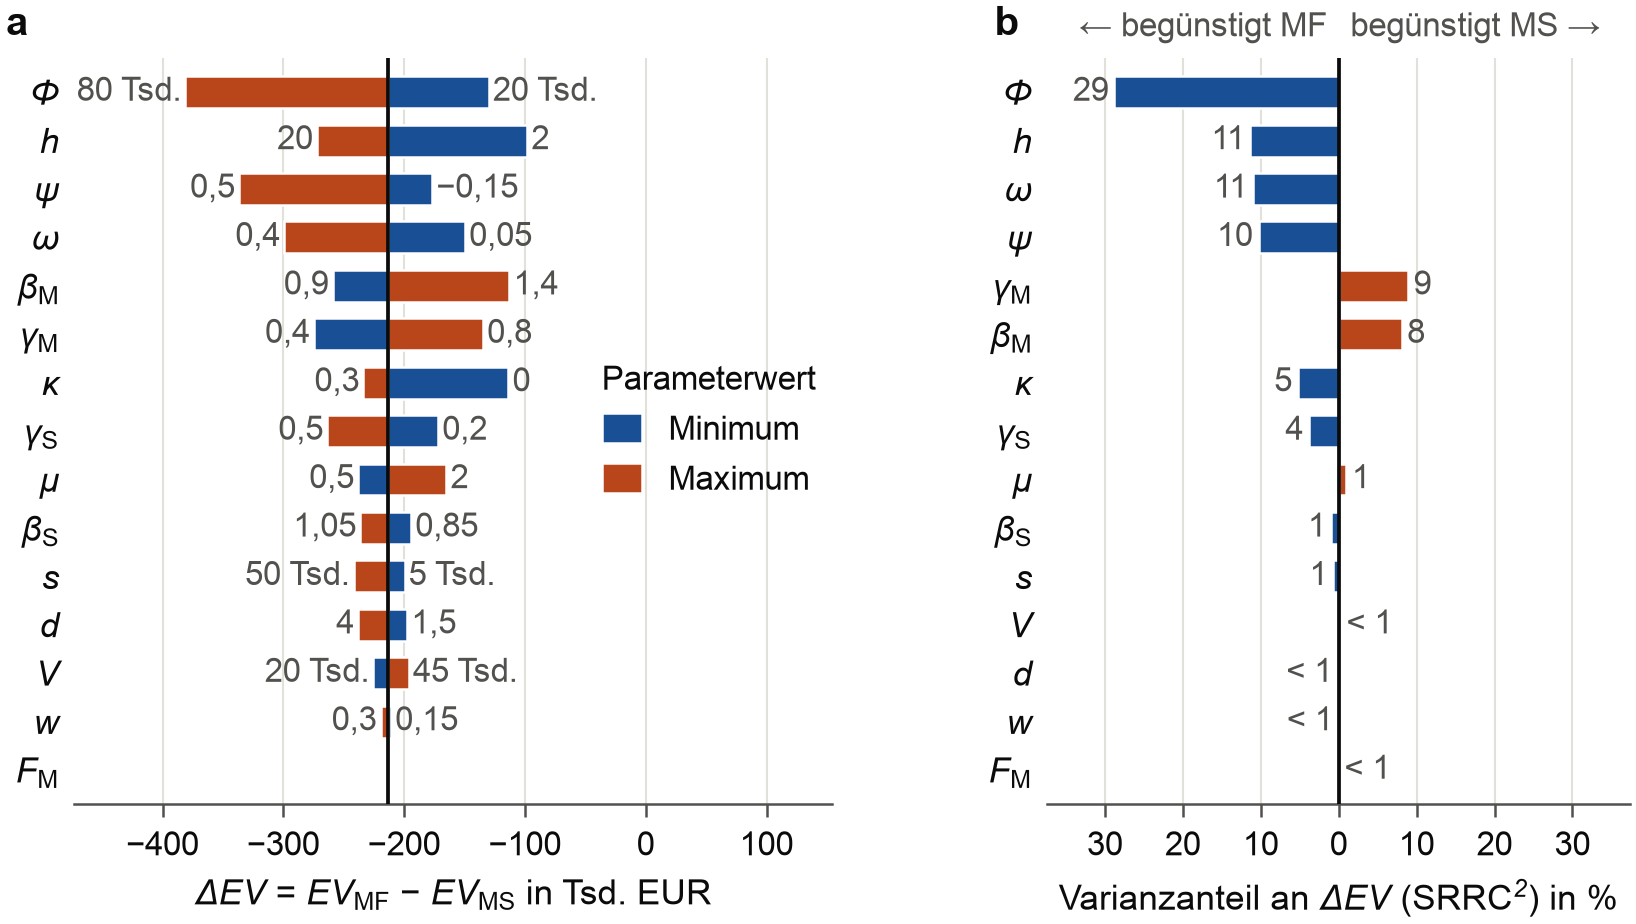
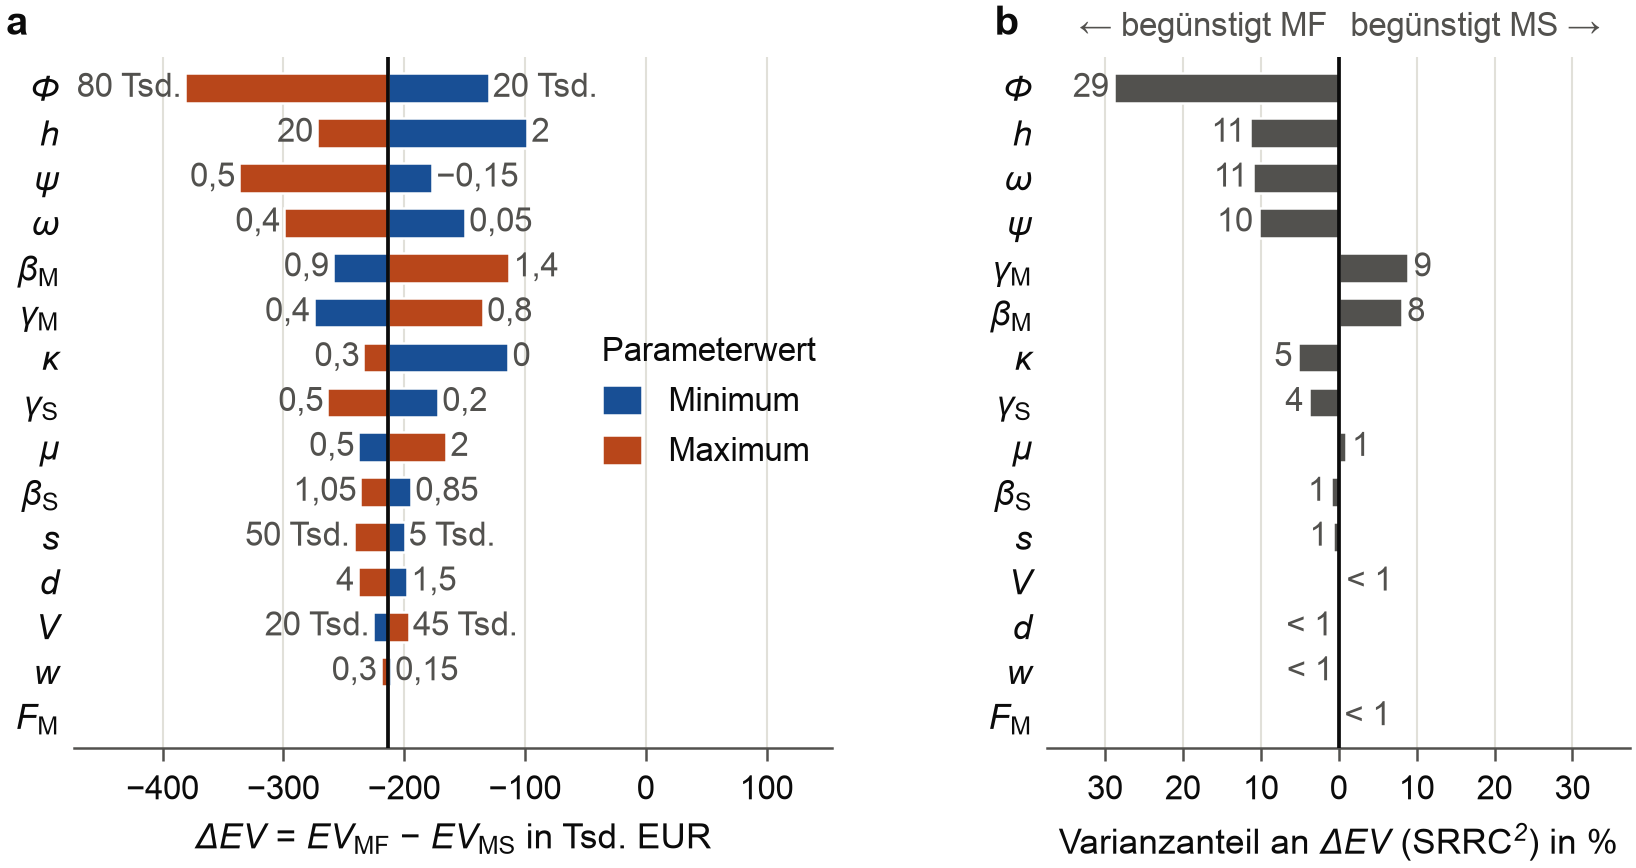
feat: v1.1.1 table rounding, clearer tables and figures, new macros
Presentation only. Model logic and result data unchanged (SHA256SUMS valid).
See CHANGELOG for details.

diff --git a/src/tables.py b/src/tables.py
@@ -7,6 +7,7 @@ Aufruf (aus model/):  python -m src.tables
 """
 
 import json
+from decimal import ROUND_HALF_UP, Decimal
 from pathlib import Path
 
 from .analysis import crossing
@@ -51,9 +52,11 @@ def de(x, nd=0, pct=False):
     schmalem Leerzeichen, echtes Minus."""
     if x is None:
         return "--"
-    v = x * 100 if pct else x
-    s = f"{abs(v):,.{nd}f}".replace(",", "X").replace(".", "{,}").replace("X", r"\,")
-    if v < 0 and float(f"{abs(v):.{nd}f}") != 0:
+    # kaufmännisch runden auf Basis der Dezimaldarstellung (vermeidet 0,6615 → 66,1 %)
+    v = Decimal(repr(float(x))) * (100 if pct else 1)
+    q = abs(v).quantize(Decimal(1).scaleb(-nd), rounding=ROUND_HALF_UP)
+    s = f"{q:,.{nd}f}".replace(",", "X").replace(".", "{,}").replace("X", r"\,")
+    if v < 0 and q != 0:
         s = MINUS + s
     return s + (r"\,\%" if pct else "")
 
@@ -85,8 +88,15 @@ def write(path, text):
 def tab_parameter():
     rows = []
     for u in UNCERTAIN:
-        rows.append(f"    ${SYMBOL_TEX[u.symbol]}$ & {SHORT_NAME[u.symbol]} & {num(u.low)} & "
-                    f"{num(u.mode)} & {num(u.high)} & {ORIGIN[u.origin]} & {u.cite} \\\\")
+        vals = (u.low, u.mode, u.high)
+        if max(abs(v) for v in vals) >= 1000:
+            cells = [de(v) for v in vals]
+        else:  # so wenige Nachkommastellen wie nötig, innerhalb der Zeile einheitlich
+            nd = next(k for k in (0, 1, 2) if all(abs(round(v, k) - v) < 1e-9 for v in vals))
+            cells = [de(v, nd) for v in vals]
+        cite = u.cite.replace("Annahme; Richtung:", "Annahme, Richtung:")
+        rows.append(f"    ${SYMBOL_TEX[u.symbol]}$ & {SHORT_NAME[u.symbol]} & {cells[0]} & "
+                    f"{cells[1]} & {cells[2]} & {ORIGIN[u.origin]} & {cite} \\\\")
     body = "\n".join(rows)
     return HEADER + rf"""\begin{{table}}[htbp]
   \centering
@@ -96,6 +106,7 @@ def tab_parameter():
     {de(I_MONO)}$\,EUR, $N_0 = {de(N0)}$ Nutzer.}}
   \label{{tab:parameter}}
   \footnotesize
+  \renewcommand{{\arraystretch}}{{1.08}}
   \begin{{tabular}}{{@{{}}l >{{\raggedright\arraybackslash}}p{{5.4cm}} r r r c
       >{{\raggedright\arraybackslash}}p{{3.8cm}}@{{}}}}
     \toprule
@@ -132,14 +143,15 @@ def tab_szenarien(r):
   \centering
   \caption[Barwertige Gesamtkosten je Szenario]{{Barwertige Gesamtkosten je Szenario und
     szenariogewichtet (Median über {de(N_RUNS)} Parametersätze, Tsd.\,EUR).
-    $\Delta K = K_{{\mathrm{{MF}}}} - K_{{\mathrm{{MS}}}}$. Positive Werte bedeuten einen
-    Kostenvorteil von Microservices von Beginn.}}
+    $\Delta K = K_{{\mathrm{{MF}}}} - K_{{\mathrm{{MS}}}}$ als Median der Differenz je
+    Parametersatz, Mittel: Mittelwert von $\Delta K$. Positive Werte bedeuten einen
+    Kostenvorteil von MS.}}
   \label{{tab:szenarien}}
   \footnotesize
   \begin{{tabular}}{{@{{}}l r r r r r r c r@{{}}}}
     \toprule
     Szenario & $g$ & $p_j$ & $K_{{\mathrm{{MS}}}}$ & $K_{{\mathrm{{MF}}}}$ & $\Delta K$ &
-      Mittel & 90-\%-Intervall & P(MS günstiger) \\
+      Mittel & 90-\%-Intervall & $P(\Delta K > 0)$ \\
     \midrule
 {body}
     \bottomrule
@@ -170,8 +182,8 @@ def tab_hypothesen(r):
          f"{h3['wert']['rang_mu']}, $\\Phi$ Rang 1. Starkes Szenario: "
          f"$h$ Rang {st['h']}, $\\mu$ Rang {st['mu']}", h3["bestaetigt"]),
     ]
-    body = "\n".join(f"    {a} & {b} & {c} & {'gestützt' if d else 'nicht gestützt'} \\\\"
-                     for a, b, c, d in rows)
+    body = "\n    \\addlinespace\n".join(
+        f"    {a} & {b} & {c} & {'gestützt' if d else 'nicht gestützt'} \\\\" for a, b, c, d in rows)
     return HEADER + rf"""\begin{{table}}[htbp]
   \centering
   \caption[Prüfung der Hypothesen]{{Prüfung der Hypothesen anhand der festgelegten
@@ -217,7 +229,7 @@ def _variant_row(v):
     band = (f"{de(v['g_P20'], 0, True)}--{de(v['g_P80'], 0, True)}"
             if v["g_P20"] is not None and v["g_P80"] is not None else "--")
     g50 = de(v["g_P50"], 0, True) if v["g_P50"] is not None else r"$>$\,100\,\%"
-    return (f"    {VARIANT_LABEL.get(v['key'], v['key'])} & {de(v['H1'], 1, True)} & {de(v['H2'], 1, True)} & "
+    return (f"    {VARIANT_LABEL.get(v['key'], v['key'])} & {de(v['H1'], 2, True)} & {de(v['H2'], 1, True)} & "
             f"{g50} & {band} \\\\")
 
 
@@ -229,8 +241,9 @@ def tab_robustheit(r, keys=MAIN_VARIANTS, label="tab:robustheit", appendix=False
     return HEADER + rf"""\begin{{table}}[htbp]
   \centering
   \caption[{cap}]{{{cap}. H1: Anteil der Parametersätze mit geringerem szenariogewichtetem
-    Erwartungswert für MF. H2: $P(\Delta K > 0)$ bei 60\,\% Wachstum. $g^*$: Wachstumsrate mit
-    50\,\% Amortisationswahrscheinlichkeit. Übergang: 20 bis 80\,\%.}}
+    EV für MF. H2: $P(\Delta K > 0)$ bei 60\,\% Wachstum. $g^*$: Wachstumsrate mit
+    50\,\% Amortisationswahrscheinlichkeit. Übergang: 20 bis 80\,\%. Bereiche als
+    Minimum / Modus / Maximum.}}
   \label{{{label}}}
   \footnotesize
   \begin{{tabular}}{{@{{}}>{{\raggedright\arraybackslash}}p{{9.2cm}} r r r c@{{}}}}
@@ -255,7 +268,7 @@ def tab_sensitivitaet_anhang(r):
         rows.append(f"    ${SYMBOL_TEX[s]}$ & {de(x['prcc_dEV'], 2)} & {k} "
                     f"({x['rang_boot_lo']}--{x['rang_boot_hi']}) & {de(x['srrc2_dEV'], 1, True)} & "
                     f"{de(x['prcc_dK_stark'], 2)} & {de(x['srrc2_dK_stark'], 1, True)} & {eq[s]} & "
-                    f"{de(mono[s], 0, True) if s in mono else '--'} \\\\")
+                    f"{de(mono[s], 1, True) if s in mono else '--'} \\\\")
     body = "\n".join(rows)
     r2 = r["hypothesen"]["H3"]["r2_rangregression"]
     return HEADER + rf"""\begin{{table}}[htbp]
@@ -263,15 +276,15 @@ def tab_sensitivitaet_anhang(r):
   \caption[Globale Sensitivität im Detail]{{Globale Sensitivität: PRCC und Rang (95-\%-Bootstrap-Intervall
     des Rangs), Varianzanteil SRRC$^2$ (Rangregression, $R^2$ = {de(r2['dEV'], 2)} bzw.
     {de(r2['dK_stark'], 2)}), Rang bei gleich breiten Bereichen (Modus $\pm$\,50\,\%) und Anteil
-    der Parametersätze mit monotonem Verlauf von $\Delta EV$ im Parameter.}}
+    der Parametersätze mit monotonem Verlauf von $\Delta EV$ im Parameter (--: nicht ausgewertet).}}
   \label{{tab:sensitivitaet_anhang}}
   \footnotesize
   \begin{{tabular}}{{@{{}}l r c r r r c r@{{}}}}
     \toprule
     & \multicolumn{{3}}{{c}}{{$\Delta EV$ (szenariogewichtet)}} &
-      \multicolumn{{2}}{{c}}{{$\Delta K$ (60\,\%)}} & gleiche & monoton \\
+      \multicolumn{{2}}{{c}}{{$\Delta K$ (60\,\%)}} & Rang bei & \\
     \cmidrule(lr){{2-4}}\cmidrule(lr){{5-6}}
-    Parameter & PRCC & Rang & SRRC$^2$ & PRCC & SRRC$^2$ & Breite & \\
+    Parameter & PRCC & Rang & SRRC$^2$ & PRCC & SRRC$^2$ & gleicher Breite & monoton \\
     \midrule
 {body}
     \bottomrule
@@ -336,7 +349,7 @@ def macros(r):
         "gSternRund": de(be["kurve_schwellen"]["g_bei_P50"], 0, True),
         "gPzwanzig": de(be["kurve_schwellen"]["g_bei_P20"], 0, True),
         "gPachtzig": de(be["kurve_schwellen"]["g_bei_P80"], 0, True),
-        "gZiehMedian": de(be["je_ziehung"]["g_star"]["median"], 1, True),
+        "gZiehMedian": de(be["je_ziehung"]["g_star"]["median"], 0, True),
         "gZiehQfuenf": de(be["je_ziehung"]["g_star"]["q05"], 0, True),
         "gZiehQneunfuenf": de(be["je_ziehung"]["g_star"]["q95"], 0, True),
         "gZiehAnteil": de(be["je_ziehung"]["anteil_mit_breakeven_bis_gmax"], 1, True),
@@ -414,6 +427,13 @@ def macros(r):
                            (0.6, 10.0, "SechzigZehn")):
         gi, hi = heat["g"].index(gv), heat["h"].index(hv)
         m[f"heatP{name}"] = de(heat["P"][hi][gi], 0, True)
+    # Nulldurchgang des Mittelwerts von ΔK über g (Bezug Erwartungswertprinzip ↔ 50-%-Kriterium)
+    import csv
+    with open(DATA / "wachstumskurve.csv", encoding="utf-8") as fh:
+        rows_wk = list(csv.DictReader(fh))
+    gk = [float(x["g"]) for x in rows_wk]
+    m["gMittelNull"] = de(crossing(gk, [float(x["mean"]) for x in rows_wk], 0.0), 0, True)
+    m["gMedianNull"] = de(crossing(gk, [float(x["median"]) for x in rows_wk], 0.0), 0, True)
     # Kostenzerlegung bei den wahrscheinlichsten Parameterwerten (Kap. 4.1)
     bf = r["basisfall"]
     lo, hi = bf["niedrig"], bf["stark"]
@@ -424,6 +444,7 @@ def macros(r):
     m["bfStarkStart"] = de(hi["migrationsstart_jahr"], 1)
     m["bfStarkDiff"] = eur_tsd(hi["MF"]["gesamt"] - hi["MS"]["gesamt"])
     m["bfStarkMig"] = eur_tsd(hi["MF"]["skalierung_migration"])
+    m["bfStarkMSSkal"] = eur_tsd(hi["MS"]["skalierung_migration"])
     # Plausibilisierung: Amortisationsdauer (Jahre) bei 60 % und 100 % Wachstum
     for key, name in (("0.60", "Stark"), ("1.00", "Hundert")):
         am = r["amortisationsdauer"][key]

diff --git a/src/figures.py b/src/figures.py
@@ -142,9 +142,9 @@ def fig_szenarien(p):
     lo = min(np.percentile(d, 5) for d in data)
     hi = max(np.percentile(d, 95) for d in data)
     ax.set_xlim(lo - 0.04 * (hi - lo), hi + 0.30 * (hi - lo))
-    ax.text(0.995, 1.02, "Microservices günstiger →", transform=ax.transAxes,
+    ax.text(0.995, 1.02, "MS günstiger →", transform=ax.transAxes,
             ha="right", va="bottom", fontsize=FS_S, color=INK2)
-    ax.text(0.0, 1.02, "← Monolith first günstiger", transform=ax.transAxes,
+    ax.text(0.0, 1.02, "← MF günstiger", transform=ax.transAxes,
             ha="left", va="bottom", fontsize=FS_S, color=INK2)
     save(fig, "abb_szenarien_delta")
 
@@ -154,7 +154,7 @@ def fig_wachstumskurve():
     c = pd.read_csv(DATA / "wachstumskurve.csv")
     thr = json.loads((DATA / "results.json").read_text(encoding="utf-8"))["breakeven"][
         "kurve_schwellen"]
-    fig, (a1, a2) = plt.subplots(2, 1, figsize=(WIDTH, 11 * CM), sharex=True,
+    fig, (a1, a2) = plt.subplots(2, 1, figsize=(WIDTH, 9.8 * CM), sharex=True,
                                  gridspec_kw={"height_ratios": [1.15, 1], "hspace": 0.28})
     g = c["g"].to_numpy()
     lo, hi, gs = thr["g_bei_P20"], thr["g_bei_P80"], thr["g_bei_P50"]
@@ -196,8 +196,7 @@ def fig_wachstumskurve():
         a2.plot(g, c[q], color=BLUE, linewidth=0.6, zorder=3)
     a2.plot(g, c["median"], color=BLUE, zorder=4, label="Median")
     a2.axhline(0, color=INK, linewidth=0.8, zorder=3)
-    a2.text(0.005, 0.02 * (c["q95"].max() - c["q05"].min()), r"$\Delta K$ > 0: Microservices"
-            " günstiger", fontsize=FS_S, color=INK2, va="bottom", ha="left")
+    a2.text(0.005, 0.02 * (c["q95"].max() - c["q05"].min()), r"$\Delta K$ > 0: MS günstiger", fontsize=FS_S, color=INK2, va="bottom", ha="left")
     a2.set_ylabel(r"Kostendifferenz $\Delta K$" "\nin Tsd. EUR (Barwert)")
     fmt_tsd(a2)
     a2.set_xlabel(G_LABEL)
@@ -215,7 +214,7 @@ def fig_heatmap():
     hm = json.loads((DATA / "heatmap.json").read_text(encoding="utf-8"))
     g, h, P = np.array(hm["g"]), np.array(hm["h"]), np.array(hm["P"])
     rows = np.arange(len(h))
-    fig, ax = plt.subplots(figsize=(WIDTH, 7 * CM))
+    fig, ax = plt.subplots(figsize=(WIDTH, 6.4 * CM))
     im = ax.pcolormesh(g, rows, P, cmap=SEQ, vmin=0, vmax=1, shading="nearest",
                        edgecolors="white", linewidth=0.4)
     cs = ax.contour(g, rows, P, levels=[0.2, 0.5, 0.8], colors=INK,
@@ -266,7 +265,7 @@ def fig_sensitivitaet():
     rows = torn["zeilen"][::-1]
     base = torn["dEV_basis"]
     prc = sorted(r["sensitivitaet"]["prcc"], key=lambda x: x["srrc2_dEV"])
-    fig, (a1, a2) = plt.subplots(1, 2, figsize=(WIDTH, 8.2 * CM),
+    fig, (a1, a2) = plt.subplots(1, 2, figsize=(WIDTH, 7.6 * CM),
                                  gridspec_kw={"width_ratios": [1.3, 1], "wspace": 0.32})
     # (a) Tornado mit Parameterwerten an den Balkenenden
     y = np.arange(len(rows))
@@ -299,7 +298,7 @@ def fig_sensitivitaet():
     # (b) Varianzanteile, Richtung durch Position (links: begünstigt MF, rechts: MS)
     y2 = np.arange(len(prc))
     signed = np.array([np.sign(x["prcc_dEV"]) * x["srrc2_dEV"] for x in prc])
-    a2.barh(y2, signed, color=[ORANGE if v > 0 else BLUE for v in signed], height=0.66,
+    a2.barh(y2, signed, color=INK2, height=0.66,
             edgecolor="white", linewidth=0.6, zorder=2)
     m = np.abs(signed).max()
     for k, v in enumerate(signed):
@@ -343,7 +342,7 @@ def fig_anhang():
     a.plot(5, b5, marker="o", markersize=6.5, color=ORANGE, markeredgecolor="white",
            markeredgewidth=1, zorder=5)
     a.annotate("Basisfall", (5, b5), textcoords="offset points", xytext=(7, 3), fontsize=FS_S)
-    a.set_xlabel(r"Betrachtungszeitraum $T$ in Jahren")
+    a.set_xlabel(r"Horizont $T$ in Jahren")
     a.set_ylabel("Break-even-Wachstumsrate\n" r"$g^{\!*}$ in %")
     a.xaxis.set_major_locator(MultipleLocator(1))
     a.set_ylim(0, None)
@@ -376,7 +375,7 @@ def fig_anhang():
            label=r"Anteil $\Delta K$ > 0, starkes Szenario")
     a.set_xscale("log")
     a.xaxis.set_major_formatter(FuncFormatter(lambda v, _: de(v)))
-    a.set_xlabel(r"Anzahl der Läufe $n$ (logarithmische Skala)")
+    a.set_xlabel(r"Anzahl der Parametersätze $n$ (logarithmische Skala)")
     a.set_ylabel("Kennzahl in %")
     a.set_ylim(0.5, 1.03)
     fmt_pct(a, "y")

diff --git a/src/model.py b/src/model.py
@@ -22,7 +22,9 @@ Modellentscheidungen mit Varianten (Robustheit):
                          (planmäßig über die Migrationsdauer verteilt und diskontiert)
   trigger = "reactive"   Migration startet bei Erreichen der Kapazitätsgrenze (Basisfall)
             "proactive"  Migration startet so früh, dass sie bei Erreichen der Grenze
-                         abgeschlossen ist (Auslösung bei h / (1+g)^d)
+                         abgeschlossen ist (Auslösung bei h / (1+g)^d). Wird die Grenze früher
+                         erreicht, als die Migration dauert, beginnt sie in Monat 1 und endet
+                         entsprechend erst nach Erreichen der Grenze.
 Kapazitätsstufen, die MS bis zum Abschluss der Migration bereits bezahlt hat, gelten bei MF
 als in den Migrationskosten M enthalten; nach Abschluss fallen nur neue Stufen an.
 """

diff --git a/src/experiments.py b/src/experiments.py
@@ -332,7 +332,7 @@ def convergence(p, d_ev, checkpoints=(100, 250, 500, 1000, 2500, 5000, 10000)):
 
 
 def amortization_time(p, growth=(SCENARIOS["stark"], 1.0), T_max=10):
-    """Amortisationsdauer je Ziehung: erster Monat, ab dem die bis dahin angefallene
+    """Amortisationsdauer je Ziehung: erster Monat, in dem die bis dahin angefallene
     barwertige Kostendifferenz ΔK positiv ist (Microservices haben die Mehrinvestition
     eingespielt). Dient der Plausibilisierung gegen Praxisangaben zur Amortisationszeit."""
     months = np.arange(1, 12 * T_max + 1)

diff --git a/CHANGELOG.md b/CHANGELOG.md
@@ -4,12 +4,18 @@ Alle nennenswerten Änderungen. Versionen folgen [Semantic Versioning](https://s
 
 ## [1.1.1] (2026-09-27)
 
-Modelllogik und alle Ergebniswerte sind unverändert. Geändert haben sich nur Darstellungen.
+Modelllogik und alle Ergebniswerte sind unverändert (`SHA256SUMS` unverändert gültig). Geändert
+haben sich Darstellung und Dokumentation.
 
-- Tabellen: Zeichensetzung der Beschriftungen, Konfidenzintervall der Monte-Carlo-Schätzung
-  bei H2 ausdrücklich benannt, Verweise auf die Gesamttabelle der Varianten, Makros für die
-  Kostenzerlegung bei wahrscheinlichsten Werten und den Anteil der Amortisation binnen zehn Jahren
-- Abbildung zur Robustheit: y-Achse im Teil d bis 150 % statt 120 %
+- Tabellen: kaufmännische Rundung auf Basis der Dezimaldarstellung, Tab. 2 ohne unnötige
+  Nachkommastellen und mit mehr Zeilenabstand, erklärte Symbole und Spaltenköpfe, H1 mit zwei
+  Nachkommastellen, Konfidenzintervall der Monte-Carlo-Schätzung bei H2 ausdrücklich benannt,
+  Zeichensetzung der Beschriftungen
+- Neue Makros: Nulldurchgang von Mittelwert und Median von ΔK, Kostenzerlegung bei
+  wahrscheinlichsten Werten, Anteil der Amortisation binnen zehn Jahren
+- Abbildungen: einheitliche Begriffe (Parametersätze, Horizont, MS/MF), Varianzanteile einfarbig,
+  Robustheit Teil d bis 150 %, kompaktere Höhen bei gleicher Schriftgröße
+- Docstrings präzisiert (vorausschauender Auslöser, Amortisationsdauer)
 
 ## [1.1.0] (2026-09-27)
 
